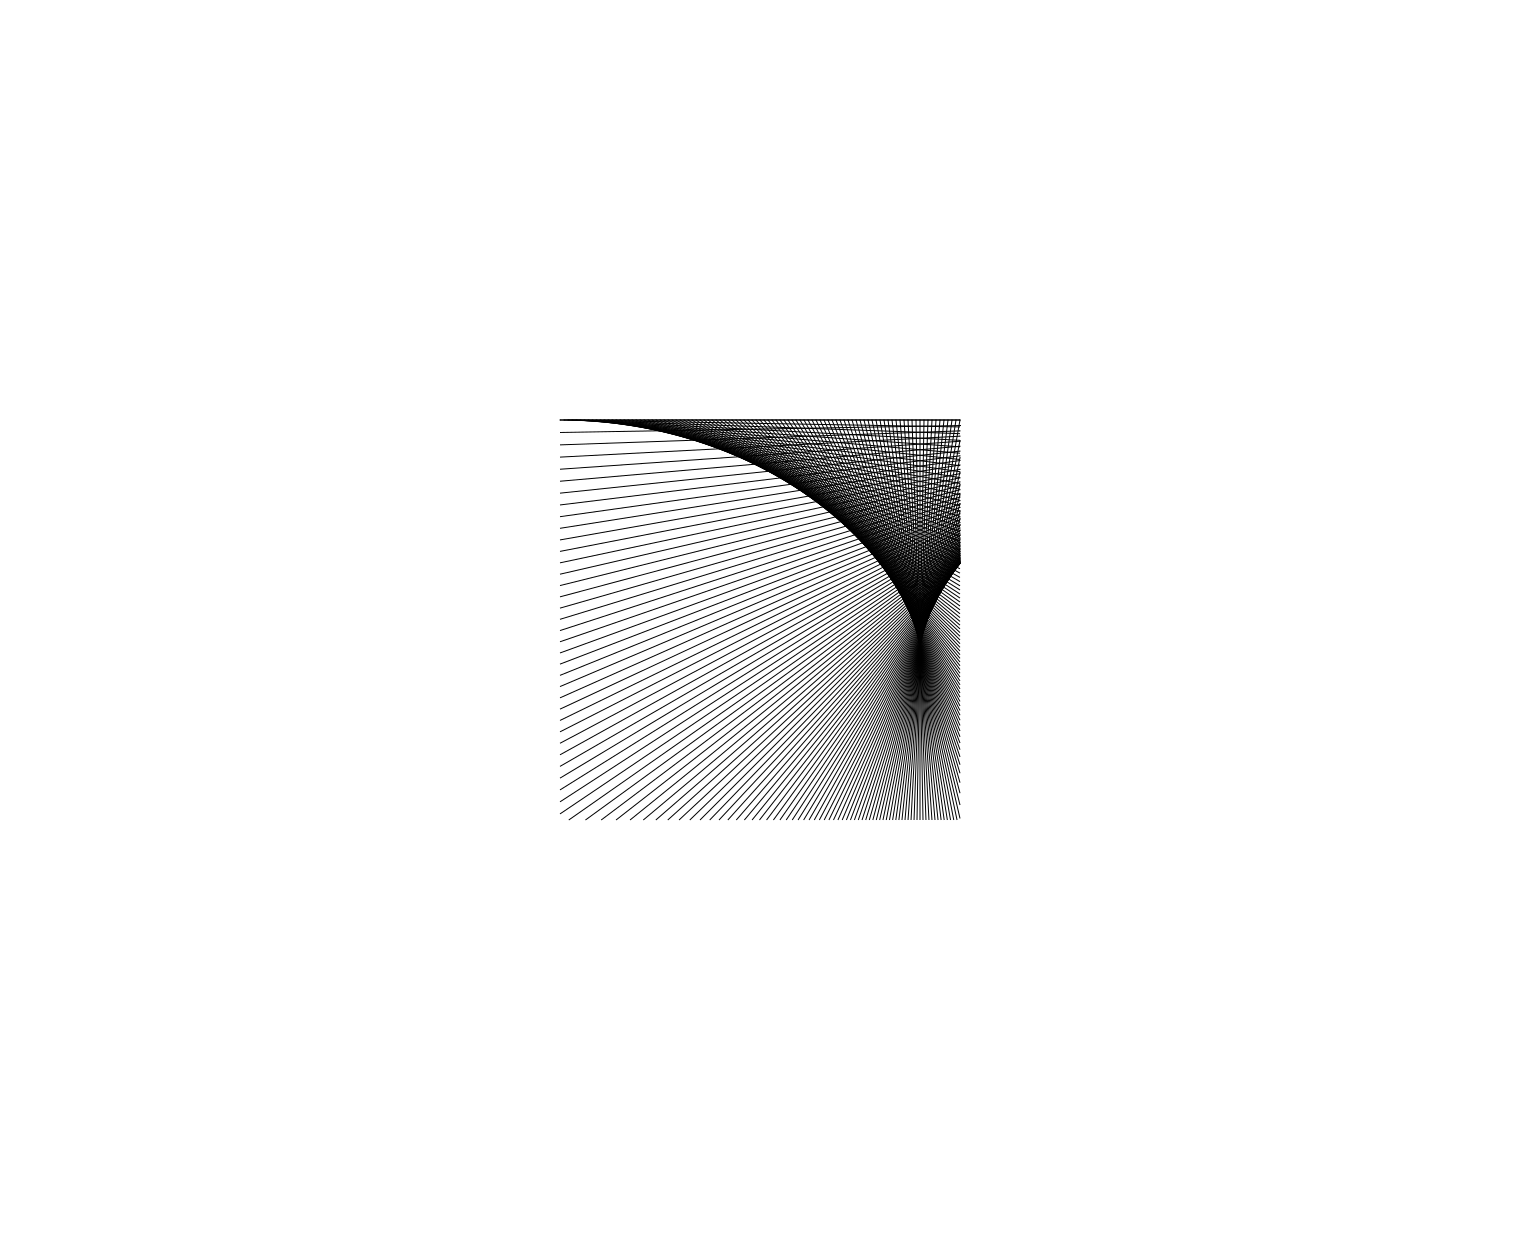
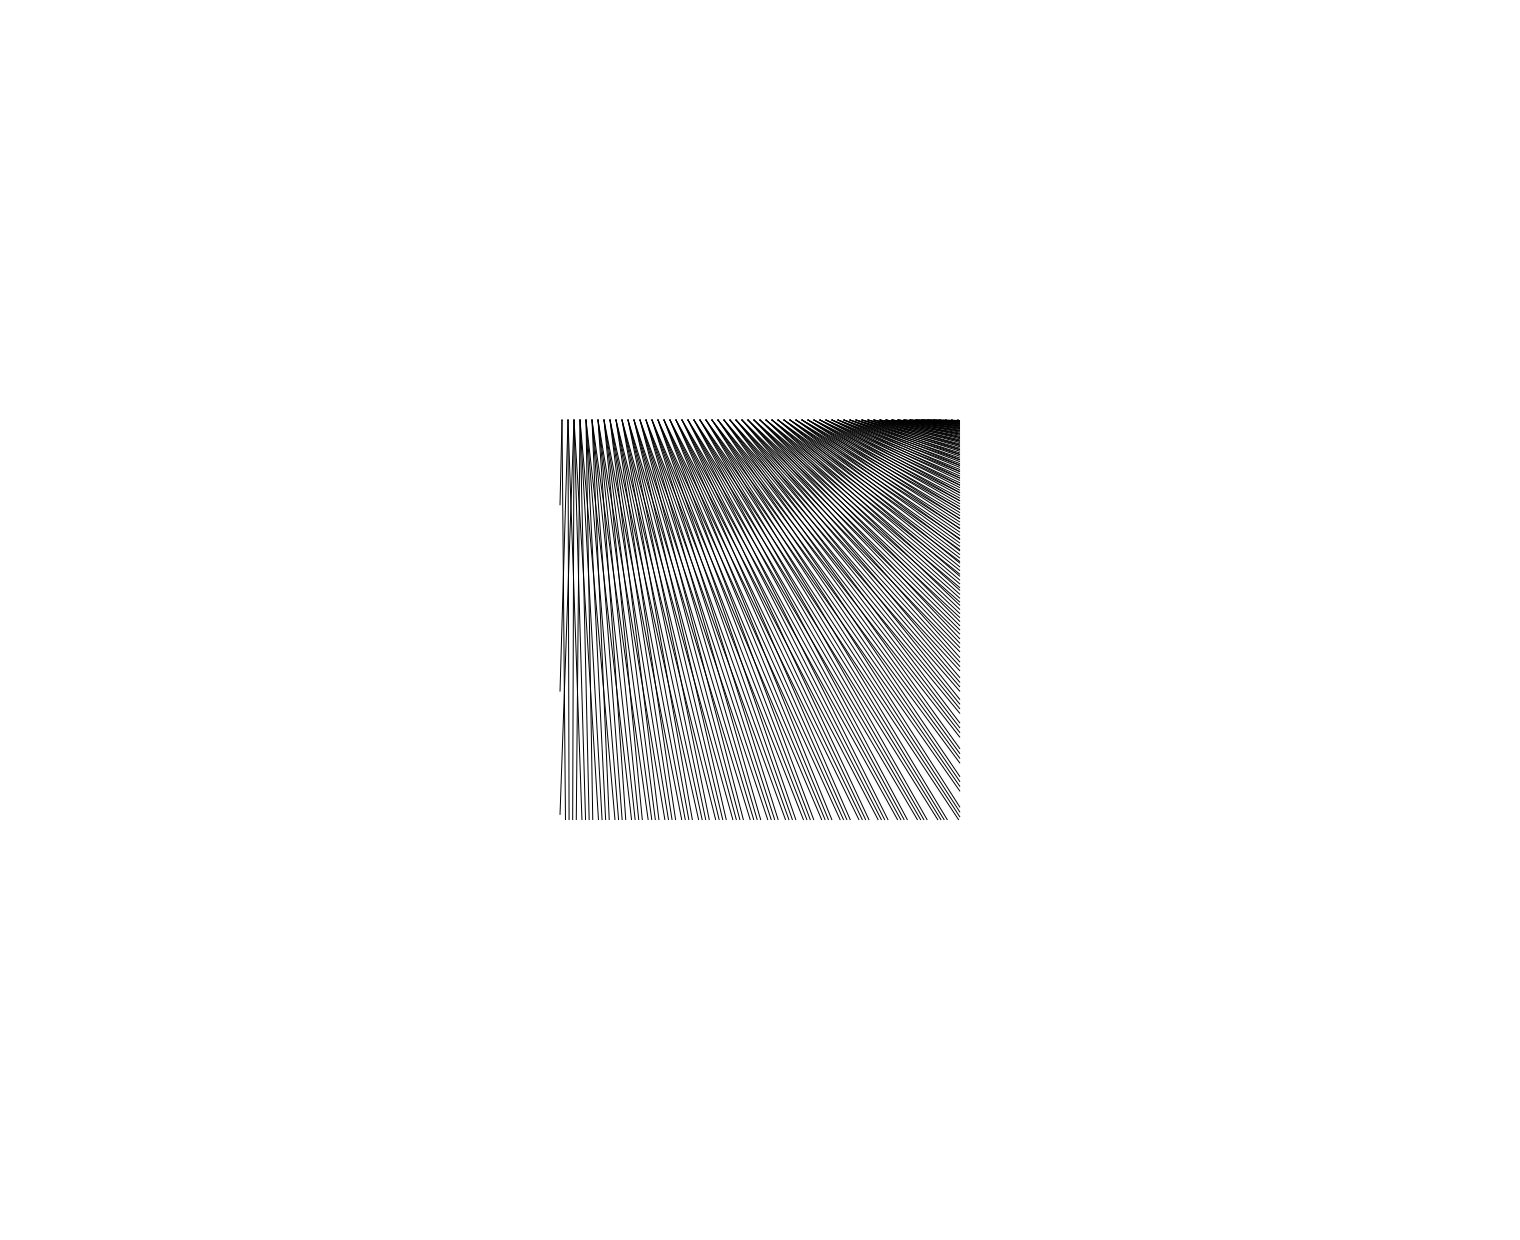
Release crop-tex-3

Changed region(s): [[0.3711, 0.3371, 0.6493, 0.6742]]

diff --git a/index.js b/index.js
@@ -1,10 +1,12 @@
+const TITLE = 'crop-tex-3'
+
 const path  = require('path')
 const plotter = require('xy-plotter')()
 
-const { radians } = require('missing-math')
+const { random, radians } = require('missing-math')
 const clip = require('lineclip')
-const job = plotter.Job('crop-tex-2')
 
+const job = plotter.Job(TITLE)
 
 const slope = (from, deg, len) => [
   from[0] + Math.cos(radians(deg)) * len,
@@ -18,13 +20,17 @@ const aabb = [
   plotter.height / 2 + 50
 ]
 
-for (let i = -100; i < 200; i++) {
+for (let i = -1; i < 99; i += 1.5) {
   const a = [aabb[0] + i, aabb[1]]
-  const b = slope(a, i, 200)
-  const lines = clip([a, b], aabb)
-  lines.forEach(line => job.line(...line[0], ...line[1]))
+  const b = slope(a, 90 - i, 500)
+
+  for (let j = 0; j < 5; j += 1.5) {
+    const lines = clip([[a[0] + j, a[1]], [b[0] - j, b[1]]], aabb)
+    lines.forEach(line => job.line(...line[0], ...line[1]))
+  }
 }
 
-console.log(plotter.Stats(job).duration.estimation.formatted)
+console.log('Estimated duration:', plotter.Stats(job).duration.estimation.formatted)
+
 plotter.File().export(job, path.join(__dirname, 'preview.png'))
 // plotter.Server('xy-server.local').queue(job, () => console.log('queued'))
